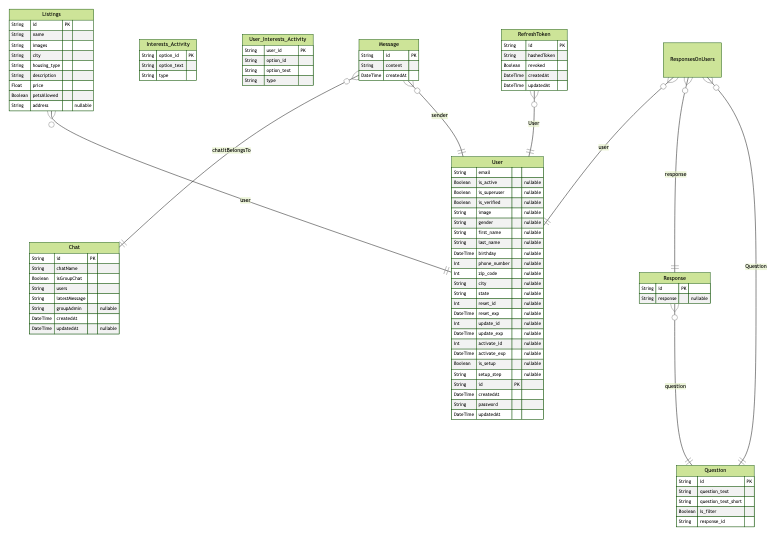
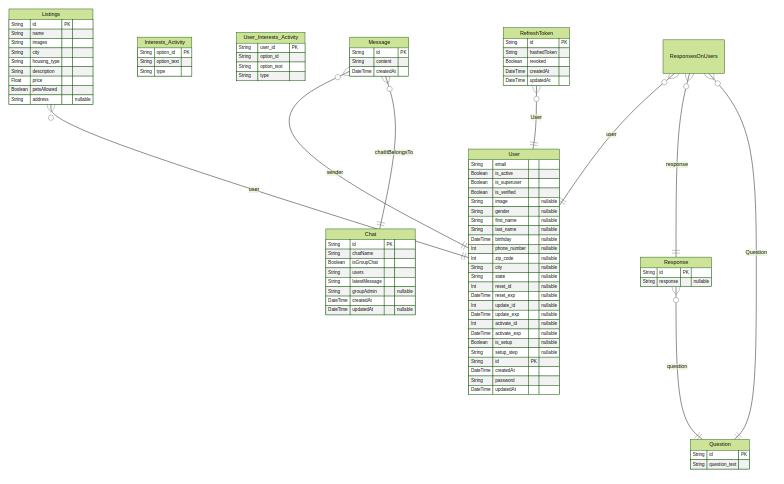
feat:  create/remove question

diff --git a/server/src/api/survey/routes.ts b/server/src/api/survey/routes.ts
@@ -2,7 +2,7 @@ import { VerifySudo } from "api/auth/services";
 import express, { Request, Response } from "express";
 const router = express.Router()
 import {isAuthenticated} from '../../middleware';
-import { GetSurveyQuestionsAndResponses, UserAnswer } from "./services";
+import { AddQuestion, GetSurveyQuestionsAndResponses, RemoveQuestion, UserAnswer } from "./services";
 router.use(isAuthenticated);
 
 router.get("/info", async (req: Request, res: Response) => {
@@ -29,7 +29,8 @@ router.post("/response", async (req: Request, res: Response) => {
             return res.status(400).json('Failed to update/create.')
         }
         else{
-            res.status(200).json('updated/created user response.')
+            res.status(200).json({
+                'msg':'Updated/created user response.'});
         }
     } catch (error) {
         res.status(500).json(error);
@@ -39,14 +40,60 @@ router.post("/response", async (req: Request, res: Response) => {
 router.post("/utils/add/question", async (req: Request, res: Response) => {
     try {
         const payload : payload = req.body[0];
+       
         if(!VerifySudo(payload.userId))
         {
             return res.status(400).json({"Error": "Only super users are allowed this function."});
         }
 
+        const { question_text } = req.body;
+        if (!question_text) {
+            return res.status(400).json('missing parameters');
+        }
+        const data = await AddQuestion(question_text);
+        if(!data)
+        {
+            return res.status(400).json('Failed to create question.');
+        }
+        else{
+            res.status(200).json({
+                'id': data.id,
+                'msg':'added new question. Please add its responses as well.'});
+        }
+        
     } catch (error) {
         res.status(500).json(error);
     }
 });
+
+router.post("/utils/remove/question", async (req: Request, res: Response) => {
+    try {
+        const payload : payload = req.body[0];
+       
+        if(!VerifySudo(payload.userId))
+        {
+            return res.status(400).json({"Error": "Only super users are allowed this function."});
+        }
+
+        const { question_text } = req.body;
+        if (!question_text) {
+            return res.status(400).json('missing parameters');
+        }
+        
+        if(!await RemoveQuestion(question_text))
+        {
+            return res.status(400).json('Failed to remove question.');
+        }
+        else{
+            res.status(200).json({
+                'question_text': question_text,
+                'msg':'Removed question and its reponses.'});
+        }
+        
+    } catch (error) {
+        res.status(500).json(error);
+    }
+});
+
 
 export default router;

diff --git a/server/src/api/survey/services.ts b/server/src/api/survey/services.ts
@@ -5,7 +5,6 @@ export async function GetSurveyQuestionsAndResponses(userId: string){
         select: {
             id: true,
             question_text: true,
-            question_text_short: true,
             response: true,
             ResponsesOnUsers: {
                 where: {
@@ -43,4 +42,20 @@ export async function UserAnswer(userId: string, questionId:string, responseId: 
     else{
         return update;
     }
+}
+
+export async function AddQuestion(question_text: string){
+    return await db.question.create({
+        data: {
+            question_text,
+        }
+    });
+}
+
+export async function RemoveQuestion(id: string){
+    return await db.question.delete({
+        where: {
+            id,
+        }
+    });
 }
